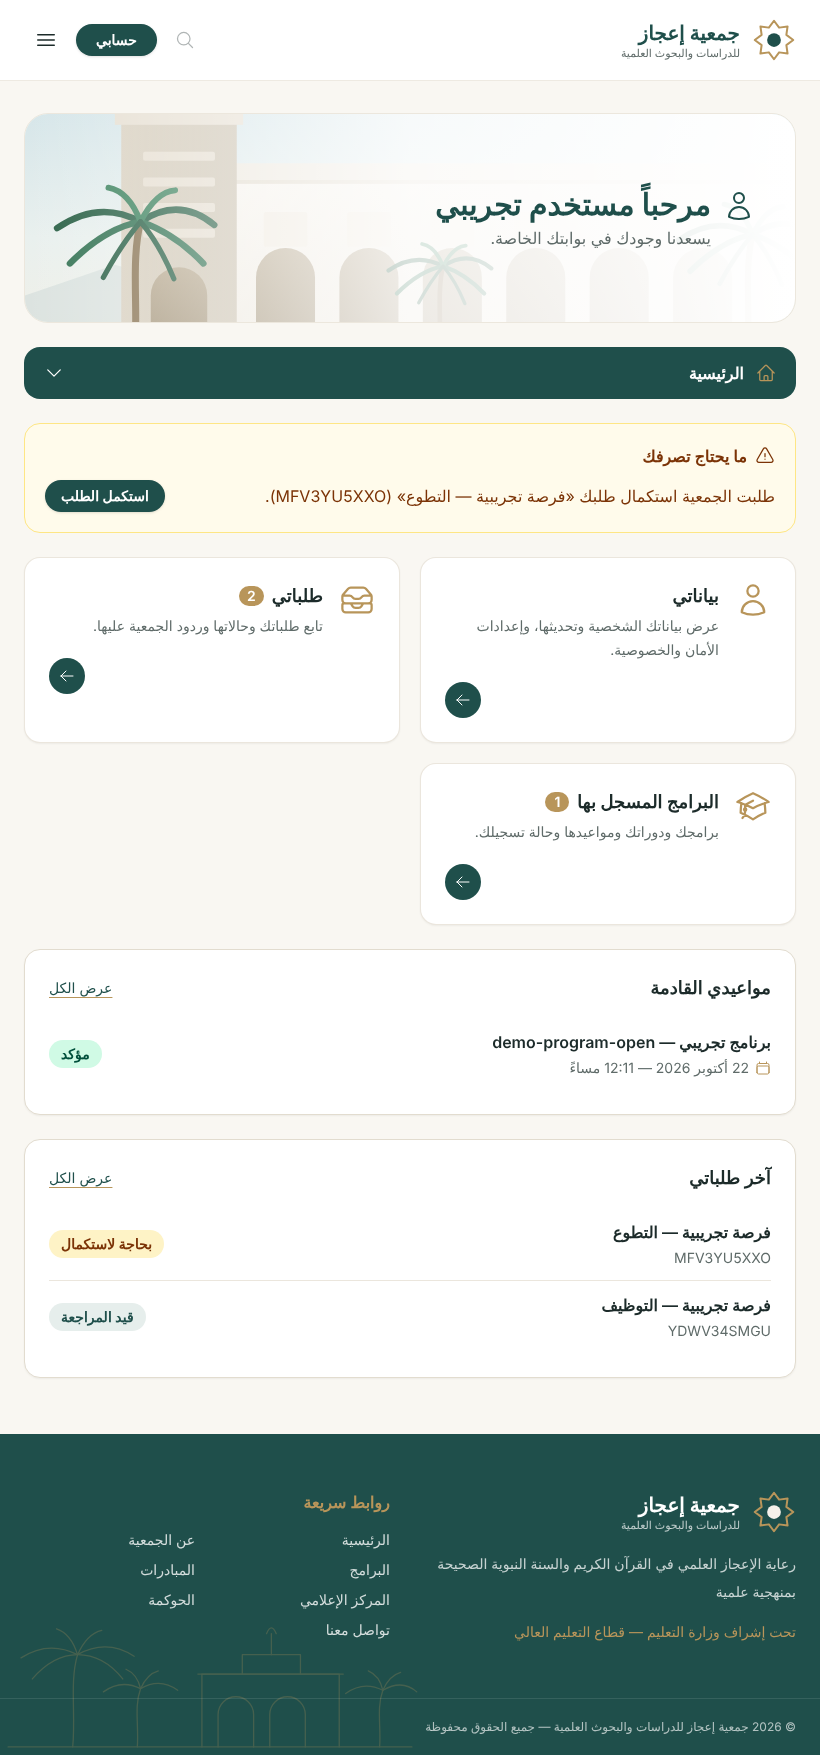
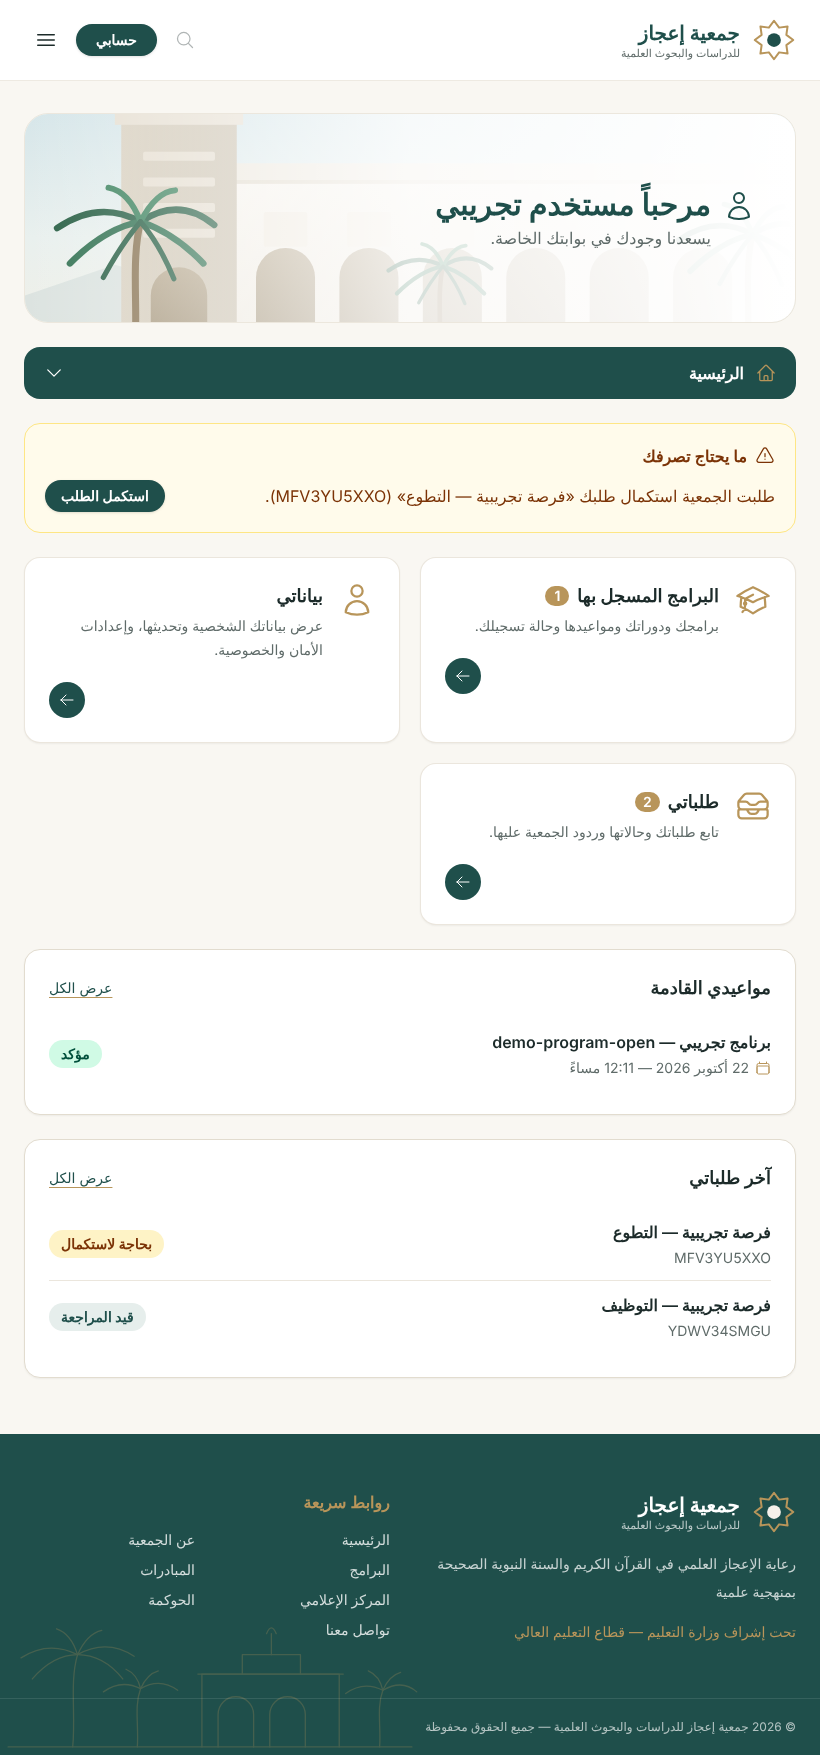
feat(account): order the dashboard sidebar and cards as in reference image 04
Approved by Safwan: only the ordering lines of the shared config/account.php change; the cards get their own order list.

Claude-Session: https://claude.ai/code/session_01VWzf1pmXUCUuNbo4Ycmepc

diff --git a/config/account.php b/config/account.php
@@ -29,19 +29,27 @@ return [
             'active' => ['account.profile', 'account.security', 'account.data*', 'account.phone*'],
         ],
         [
-            'route' => 'account.requests.index',
-            'label' => 'services.nav.requests',
-            'description' => 'services.nav.requests_description',
-            'icon' => 'inbox-stack',
-            'active' => ['account.requests.*'],
-        ],
-        [
             'route' => 'account.programs.index',
             'label' => 'programs.nav.programs',
             'description' => 'programs.nav.programs_description',
             'icon' => 'academic-cap',
             'active' => ['account.programs.*'],
         ],
+        [
+            'route' => 'account.requests.index',
+            'label' => 'services.nav.requests',
+            'description' => 'services.nav.requests_description',
+            'icon' => 'inbox-stack',
+            'active' => ['account.requests.*'],
+        ],
+    ],
+
+    // ترتيب بطاقات الرئيسية (الصورة 04)، ويختلف عن ترتيب القائمة الجانبية أعلاه. وما لم يُذكر هنا
+    // يأتي بعدها بترتيب القائمة
+    'cards' => [
+        'account.programs.index',
+        'account.profile',
+        'account.requests.index',
     ],
 
 ];

diff --git a/tests/Feature/Accounts/DashboardSummaryTest.php b/tests/Feature/Accounts/DashboardSummaryTest.php
@@ -7,6 +7,7 @@ use App\Models\Program;
 use App\Models\ProgramRegistration;
 use App\Models\ServiceRequest;
 use App\Models\User;
+use App\Support\AccountNavigation;
 use Illuminate\Support\Facades\DB;
 
 beforeEach(function () {
@@ -102,4 +103,12 @@ it('leaves out deleted programs and drafts of unpublished openings', function ()
         ->assertDontSee(__('account.summary.open_draft', ['opening' => 'فرصة غير منشورة']));
 
     expect($response->viewData('summary')['upcoming_count'])->toBe(0);
+});
+
+it('orders the cards as in the reference (programs, my info, requests) and the sidebar as home, my info, programs, requests', function () {
+    $this->actingAs($this->user)->get('/account')->assertOk()
+        ->assertSeeInOrder([__('programs.nav.programs_description'), __('account.nav.profile_description'), __('services.nav.requests_description')]);
+
+    expect(AccountNavigation::for($this->user)->pluck('route')->all())
+        ->toBe(['account.dashboard', 'account.profile', 'account.programs.index', 'account.requests.index']);
 });

diff --git a/app/Support/AccountNavigation.php b/app/Support/AccountNavigation.php
@@ -26,6 +26,23 @@ final class AccountNavigation
     }
 
     /**
+     * بطاقات الرئيسية: العناصر التي لها وصف، بترتيب account.cards، وما لم يُذكر فيه بعدها بترتيب
+     * القائمة.
+     *
+     * @return Collection<int, array{route: string, label: string, icon: string, active: list<string>, description?: string, can?: string}>
+     */
+    public static function cards(User $user): Collection
+    {
+        /** @var list<string> $order */
+        $order = config('account.cards', []);
+
+        return self::for($user)
+            ->filter(fn (array $link): bool => isset($link['description']))
+            ->sortBy(fn (array $link, int $index): int => ($position = array_search($link['route'], $order, true)) === false ? count($order) + $index : $position)
+            ->values();
+    }
+
+    /**
      * @param  array{active: list<string>}  $link
      */
     public static function isActive(array $link): bool

diff --git a/resources/views/account/dashboard.blade.php b/resources/views/account/dashboard.blade.php
@@ -25,7 +25,7 @@
 
     <h2 class="sr-only">{{ __('account.dashboard.shortcuts') }}</h2>
     <div class="grid gap-5 sm:grid-cols-2 xl:grid-cols-3">
-        @foreach (\App\Support\AccountNavigation::for($user)->filter(fn (array $link) => isset($link['description'])) as $link)
+        @foreach (\App\Support\AccountNavigation::cards($user) as $link)
             <a href="{{ route($link['route']) }}"
                 class="group flex flex-col rounded-2xl border border-line/70 bg-white p-6 shadow-xs transition hover:-translate-y-0.5 hover:border-primary/40 hover:shadow-md">
                 <span class="flex items-start gap-4">

diff --git a/docs/plans/user-dashboard.md b/docs/plans/user-dashboard.md
@@ -28,9 +28,11 @@
 - عدد الاستعلامات ثابت مهما كثرت السجلات.
 - لقطات على العروض الثلاثة.
 
-## خارج البند
+## الترتيب كالصورة 04 (قرار صفوان، 7 أكتوبر 2026)
 
-- ترتيب البطاقات كالصورة (البرامج قبل «بياناتي») يقتضي إعادة ترتيب `config/account.php` المشترك، وهو ممنوع في هذا التكليف. يُقترح على صفوان.
+- **القائمة الجانبية:** الرئيسية، بياناتي، البرامج المسجل بها، طلباتي.
+- **البطاقات:** البرامج المسجل بها، بياناتي، طلباتي.
+- **التنفيذ:** نقل سطور عنصر البرامج في `config/account.php`، وقائمة ترتيب للبطاقات `account.cards`، واختبار للترتيبين. والقرار في `decisions.md`.
 
 ## المراجعتان
 
@@ -50,4 +52,4 @@
 - هل استخدمت `{!! !!}` أو `$guarded = []` أو استعلاماً خاماً بمدخلات؟ **لا.**
 - هل أضفت مكتبة؟ **لا.**
 - هل عدّلت ترحيلاً قديماً؟ **لا.**
-- هل اللقطات مطابقة للمرجع، مع التصحيحات؟ **نعم:** شريط الترحيب، والشريط الجانبي الأخضر، والبطاقات البيضاء بأيقونة ذهبية ودائرة سهم خضراء، وعلى الجوال قائمة منسدلة وعمود واحد. **ما اختلف:** ترتيب البطاقات (خارج البند)، وبطاقتا «الجمعية العمومية» و«الملفات» تنتظران وحدتيهما.
+- هل اللقطات مطابقة للمرجع، مع التصحيحات؟ **نعم:** شريط الترحيب، والشريط الجانبي الأخضر، والبطاقات البيضاء بأيقونة ذهبية ودائرة سهم خضراء، وعلى الجوال قائمة منسدلة وعمود واحد. **ما اختلف:** بطاقتا «الجمعية العمومية» و«الملفات» تنتظران وحدتيهما. والترتيب صار كالصورة.

diff --git a/docs/decisions.md b/docs/decisions.md
@@ -281,3 +281,10 @@
   - **التوليد:** `SyncAttendanceCertificate` في الطابور. يولّد الشهادة لمسجل مؤكد سُجّل حضوره، ويحذفها إن أُلغي حضوره، والملف في القرص الخاص.
   - **التنزيل:** لصاحبها وحده من «البرامج المسجل بها».
   - **القالب مؤقت وواضح أنه مؤقت:** بيانات المسجل والبرنامج والتاريخ وحدها، وعلامة 【ناقص】 للنص والتوقيع والختم. ويُستبدل بقالب الجمعية حين يصل.
+
+**2026-10-07 — ترتيب لوحة المستخدم كالصورة 04 (قرار صفوان: تعديل سطور الترتيب في `config/account.php` المشترك)**
+- **القائمة الجانبية:** الرئيسية، بياناتي، البرامج المسجل بها، طلباتي، ثم الجمعية العمومية والملفات عند بنائهما. نُقل عنصر البرامج قبل الطلبات، بلا تعديل في محتوى أي عنصر.
+- **البطاقات بترتيب مختلف كالصورة:**
+  - البرامج المسجل بها، ثم بياناتي، ثم الملفات والجمعية العمومية وطلباتي.
+  - المفتاح الجديد `account.cards` قائمة ترتيب فقط، وما لم يُذكر فيه يأتي بعدها بترتيب القائمة (`AccountNavigation::cards`).
+- **عند بناء الجمعية العمومية والملفات:** يُضاف مساراهما إلى `account.cards` قبل `account.requests.index` لتطابق الصورة.
